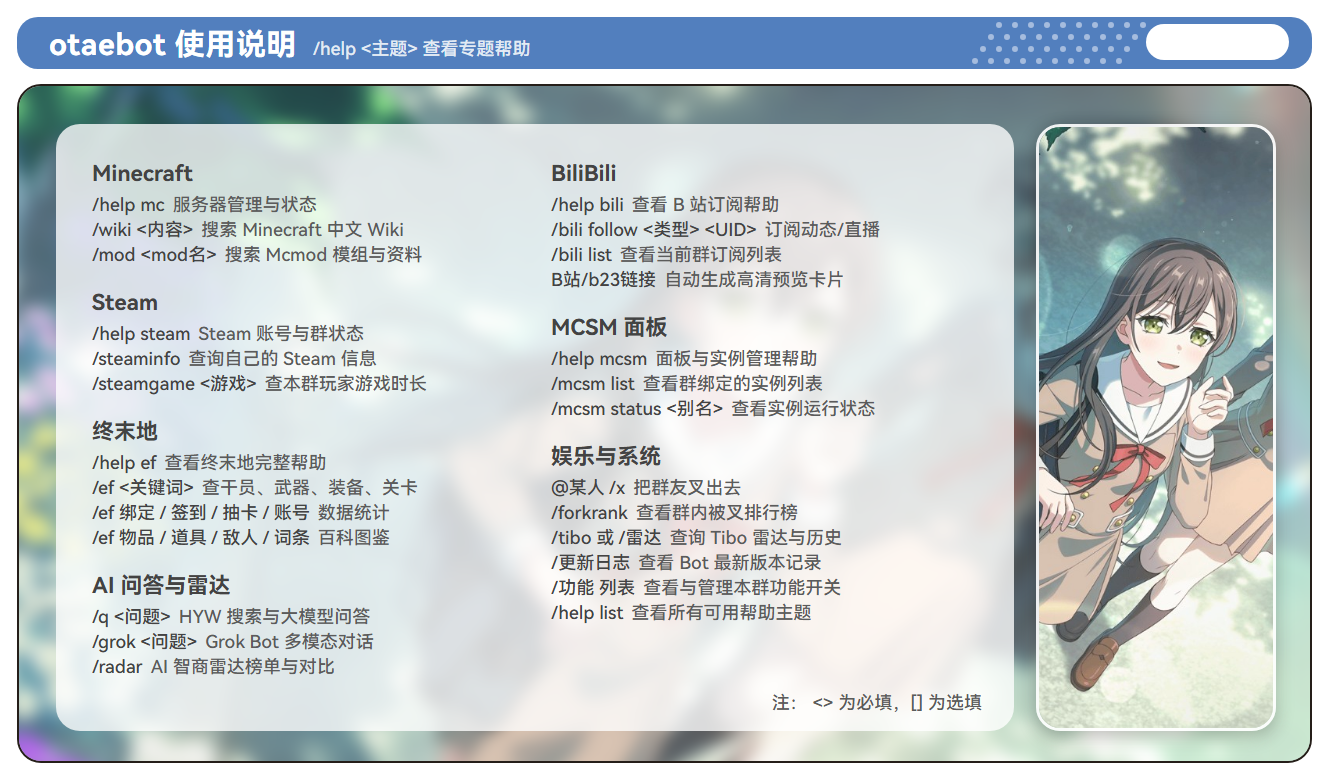
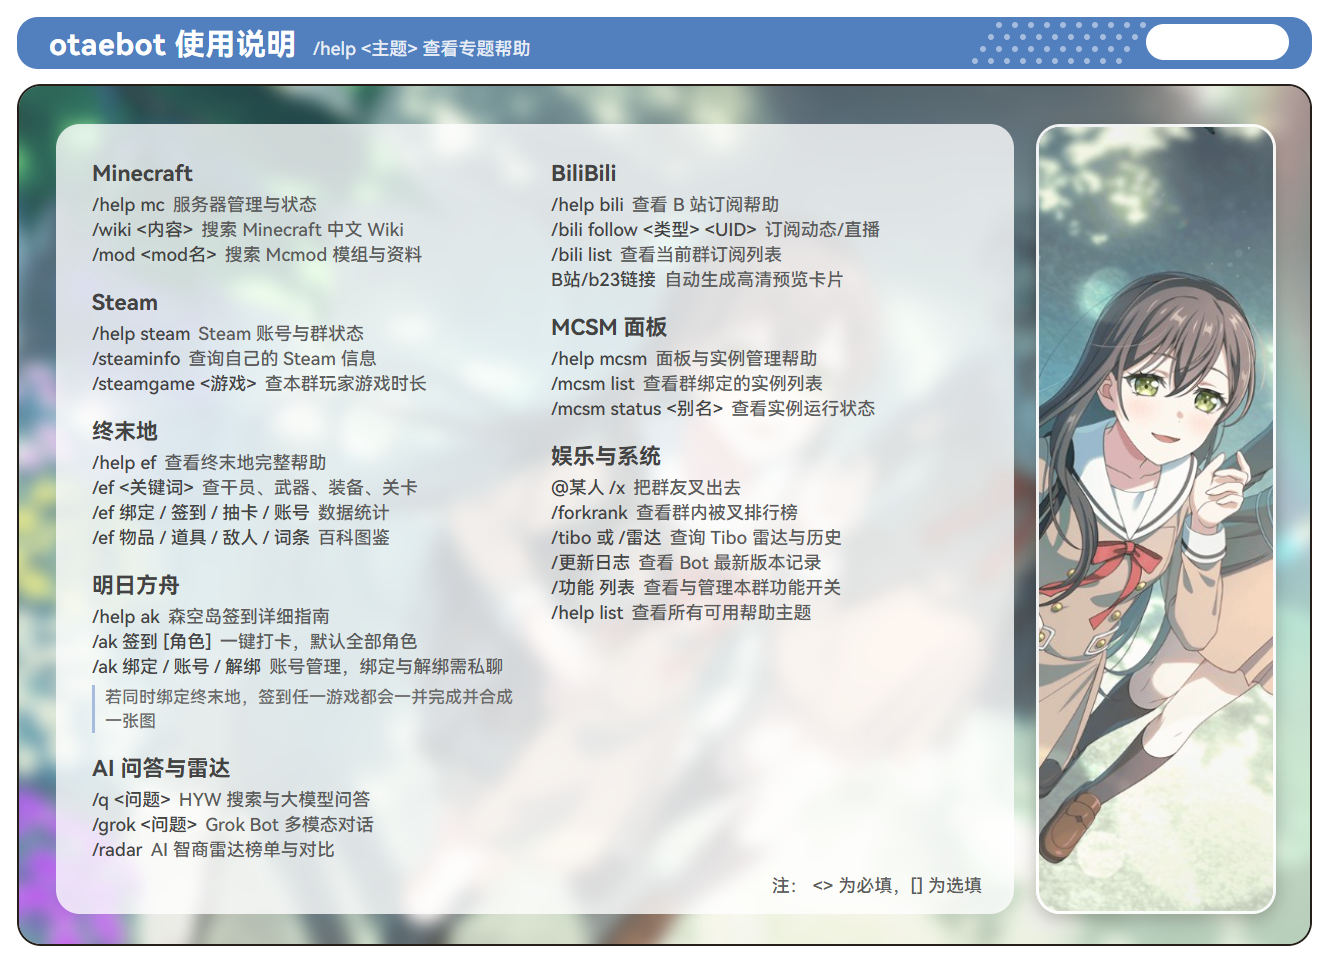
docs(help): 主帮助页新增明日方舟栏，探索帮助统一以 /ef 探索 为主

diff --git a/plugins/endfield/catalog/commands.py b/plugins/endfield/catalog/commands.py
@@ -983,7 +983,7 @@ def format_help() -> str:
             "  /ef 主账号 <编号> | /ef 解绑 <编号> —— 设定默认主账号或解除绑定（限私聊）",
             "  /ef 签到 [全部|编号|昵称|UID后四位] —— 执行森空岛每日签到并获取奖励；若还绑定了明日方舟，会顺带签到其全部角色并合成一张图",
             "  /ef 日常 [全部|编号|昵称|UID后四位] —— 展示理智回复、日常活跃、每周事务及通行证进度看板",
-            "  /zmd 探索 [编号|昵称|UID后四位] —— 全部地区六类收集进度，默认主账号；/ef 探索 同效",
+            "  /ef 探索 [编号|昵称|UID后四位] —— 全部地区六类收集进度，默认主账号；/zmd 探索 同效",
             "  /ef 抽卡 [账号] | /ef 抽卡同步 [账号] [--full] —— 统计抽卡记录与欧气分析（超 3 张图合并转发）",
             "  /ef 抽卡导入 [账号] —— 通过手机验证码导入小黑盒历史抽卡统计（限私聊）",
             "  /ef 抽卡记录 [账号] [页码] [--池 <名称>] —— 分页检视抽卡历史明细",

diff --git a/plugins/endfield/handlers.py b/plugins/endfield/handlers.py
@@ -2061,7 +2061,7 @@ async def _handle_exploration(
     role = account_store.resolve_role(qq_user_id, command.account_selector)
     if role is None:
         if command.account_selector:
-            return await matcher.finish("未找到对应账号，请发送 /ef 账号 查看编号，再使用 /zmd 探索 <编号>。")
+            return await matcher.finish("未找到对应账号，请发送 /ef 账号 查看编号，再使用 /ef 探索 <编号>。")
         return await matcher.finish("尚未绑定终末地账号，请先私聊发送 /ef 绑定。")
     with cold_start_command(matcher):
         token = account_store.decrypt_token(role, cipher)

diff --git a/docs/endfield_exploration.md b/docs/endfield_exploration.md
@@ -7,8 +7,8 @@
 先私聊 `/ef 绑定` 添加游戏账号，再发送：
 
 ```text
-/zmd 探索
-/zmd 探索 2
+/ef 探索
+/ef 探索 2
 /ef 探索 昵称
 /ef 地区探索 UID后四位
 /ef 账号 探索 2
@@ -164,4 +164,4 @@ $env:PYTHONUTF8 = '1'
 
 提交前另执行了全量测试，结果为 **1983 passed、21 failed、2 skipped、460 subtests passed**。在同一 Python 环境、未修改的上游 `f6d1716` 独立工作区中，21 项失败全部复现：1 项 B 站文档图片像素比对、1 项 Grok 响应字节数断言、3 项 HTTP 代理测试，以及 16 项 Windows SQLite 临时文件清理测试。该环境的 httpx 版本为 0.24.0，代理测试涉及较新版本的参数和内部结构。此 PR 不修改这些模块；完整结果和基线复现分别保存在本地 `full-tests.txt`、`baseline-failures.txt`，与上述回归报告同目录。
 
-本机绑定表为空，因此本次未验证实际账号的最新接口响应或 QQ 投递。部署后需要用已绑定账号执行 `/zmd 探索`，核对全部地区名称、六类计数与森空岛当前页面是否一致，并确认群聊、私聊和指定账号的图片发送。亚服沿用现有客户端路径，但本次没有亚服真实响应样本，不能将离线测试视为该区服的线上验收。
+本机绑定表为空，因此本次未验证实际账号的最新接口响应或 QQ 投递。部署后需要用已绑定账号执行 `/ef 探索`，核对全部地区名称、六类计数与森空岛当前页面是否一致，并确认群聊、私聊和指定账号的图片发送。亚服沿用现有客户端路径，但本次没有亚服真实响应样本，不能将离线测试视为该区服的线上验收。

diff --git a/README.md b/README.md
@@ -8,7 +8,7 @@
 End 插件的公共资料默认优先 AKEData；账号接口仍用官方，缺失资料保留兼容回退。
 覆盖范围、缓存变化与实测见 [AKE 迁移记录](docs/endfield_ake_migration_execution.md)。
 
-已绑定账号可用 `/zmd 探索` 或 `/ef 探索` 查看全部地区的六类收集进度，默认查询主账号。
+已绑定账号可用 `/ef 探索` 或 `/zmd 探索` 查看全部地区的六类收集进度，默认查询主账号。
 命令用法、图片预览与数据边界见 [地区探索查询](docs/endfield_exploration.md)。
 
 HYW 搜索问答插件已接入：`/q 问题`、图片解释和引用追问。
